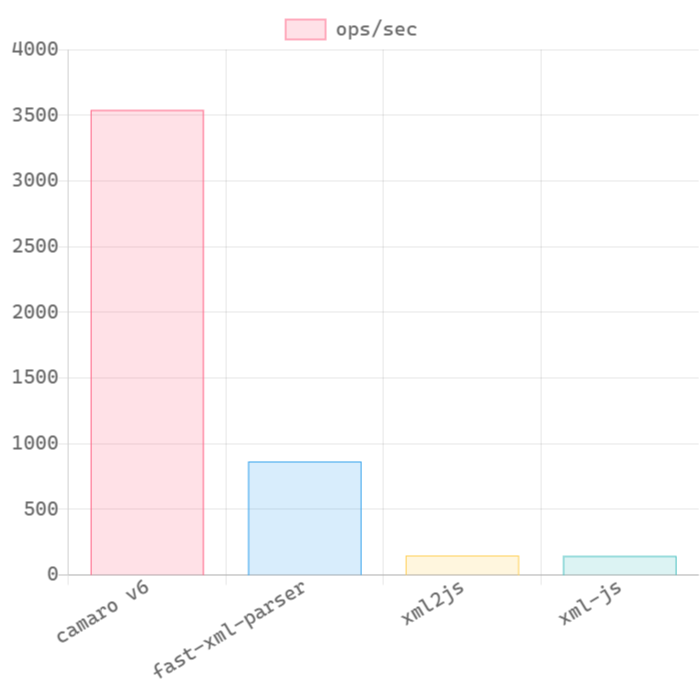
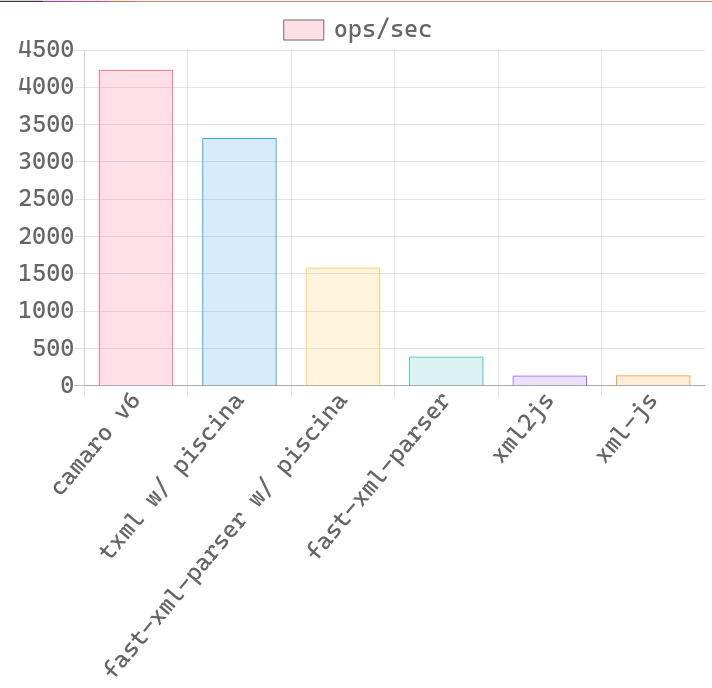
chore: update benchmark result

diff --git a/benchmark/chart.html b/benchmark/chart.html
@@ -13,6 +13,8 @@
                 data: {
                     labels: [
                         'camaro v6',
+                        'txml w/ piscina',
+                        'fast-xml-parser w/ piscina',
                         'fast-xml-parser',
                         'xml2js',
                         'xml-js',
@@ -20,10 +22,10 @@
                     datasets: [
                         {
                             label: 'ops/sec',
-                            // data: [1820, 295, 52, 52], // 306kb
-                            data: [3539, 864, 148, 144], // 109kb
-                            // data: [4840, 1542, 266, 265], // 60kb
-                            // data: [6215, 9328, 2108, 2099], // 7kb
+                            data: [1780, 1356, 565, 129, 50, 55], // 306kb
+                            // data: [4237, 3320, 1586, 392, 137, 142], // 109kb
+                            // data: [6112, 5757, 2637, 766, 260, 282], // 60kb
+                            // data: [13193, 17422, 11148, 6720, 1955, 1990], // 7kb
                             backgroundColor: [
                                 'rgba(255, 99, 132, 0.2)',
                                 'rgba(54, 162, 235, 0.2)',

diff --git a/benchmark/transform.js b/benchmark/transform.js
@@ -41,7 +41,7 @@ async function bench({ name = '', fn, iterations = 10000, async = false } = {}) 
     }
 }
 
-const xml = fs.readFileSync(__dirname + '/./fixtures/100kb.xml', 'utf-8')
+const xml = fs.readFileSync(__dirname + '/./fixtures/300kb.xml', 'utf-8')
 const template = {
     cache_key: '/HotelListResponse/cacheKey',
     hotels: [
@@ -76,9 +76,9 @@ async function runBenchmarks() {
         async: true,
     })
 
-    await bench({name: 'fast-xml-parser worker', async: true, fn: async () => fxpWorkerPool.runTask(xml)});
-
     await bench({name: 'txml worker', async: true, fn: async () => txmlWorkerPool.runTask(xml) });
+
+    await bench({name: 'fast-xml-parser worker', async: true, fn: async () => fxpWorkerPool.runTask(xml)});
 
     await bench({name: 'fast-xml-parser', fn: () => fastXmlParser.parse(xml)})
 

diff --git a/benchmark/index.md b/benchmark/index.md
@@ -8,16 +8,13 @@ Benchmark ran on Macbook 16".
 
 `node benchmark/transform`
 
-```
-camaro v6: 1,395.6 ops/sec
-fast-xml-parser: 153 ops/sec
-xml2js: 47.6 ops/sec
-xml-js: 51 ops/sec
-```
+Benchmark scenario:
+- 10,000 iterations
+- 4 different input size: 7KB/ 60KB / 100KB and 300KB. Test inputs are included in `fixtures` folder.
+- Output is average no. of ops per second.
+- Machine specs: AMD 4650G 6 cores - 12 threads/ 32GB memory
 
-I have included the test for various XML file sizes: 300KB/ 100KB / 60KB and 7KB. As you can see `camaro` is not very good with small XML file. However, it excels with big XML file.
-
-The tested XML files are included in `benchmarks/fixtures` folder.
+As you can see `camaro` is not very good with small XML file. However, it excels with big XML file.
 
 300 KB XML file            |  100 KB XML file
 :-------------------------:|:-------------------------:
